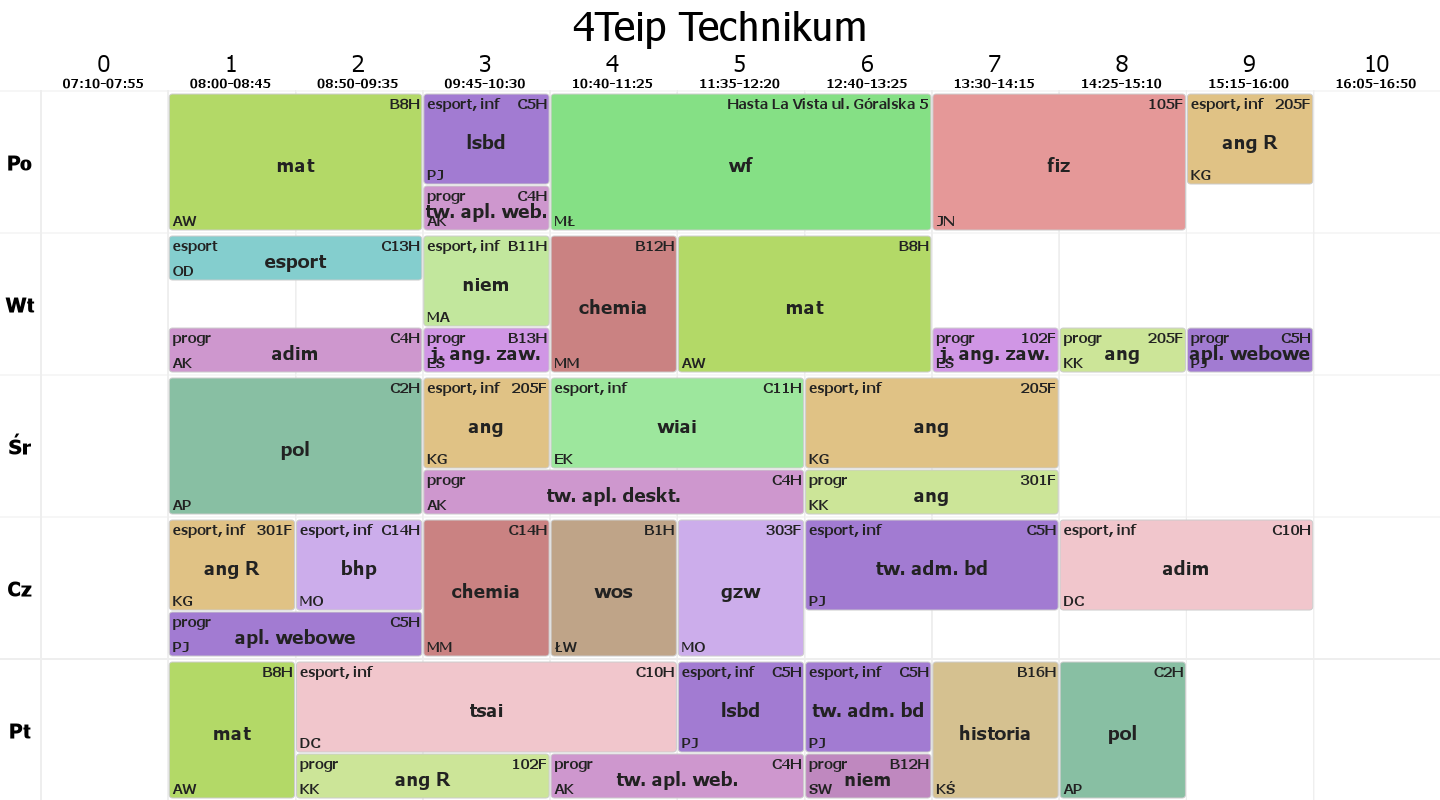
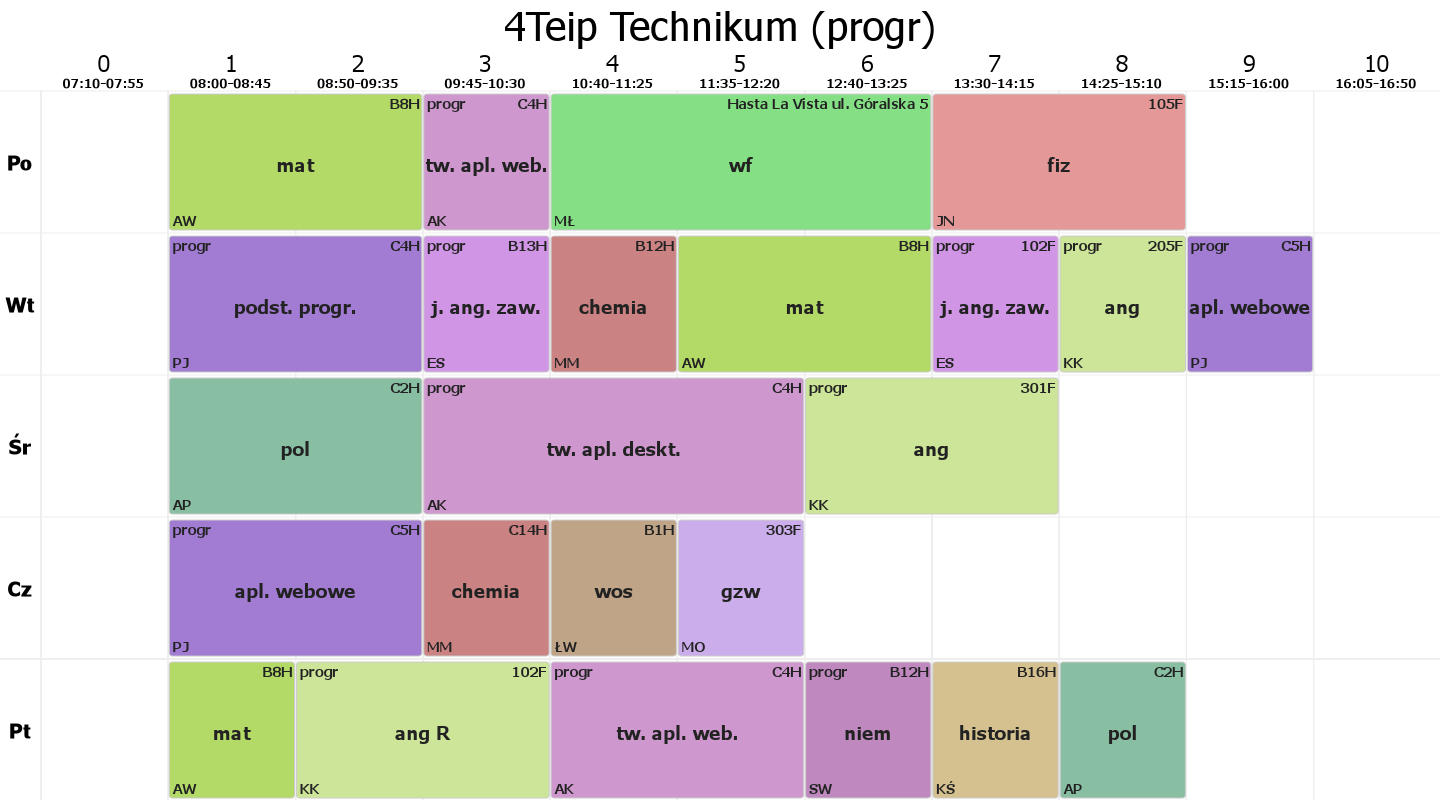
[k85] pngCreate - plan dla wybranej grupy

diff --git a/Other/pngCreate.js b/Other/pngCreate.js
@@ -4,11 +4,13 @@ const tableData=require('./tableData.js')
 var hsl = require('hsl-to-hex')
 var hexToHsl = require('hex-to-hsl');
 
-//tab = JSON.parse(fs.readFileSync('sample_data/table.json', 'utf-8'))
+tab = JSON.parse(fs.readFileSync('sample_data/table.json', 'utf-8'))
 //gen_png(tab,'4Teip Technikum','classes')
 
 f=tableData.find("4teip")
-tableData.getTable(f.type,f.id).then(tab=>gen_png(tab,f.name,f.type))
+//tableData.getTable(f.type,f.id).then(tab=>gen_png_with_group(tab,f.name,f.type,['progr','inf']))
+
+gen_png_with_group(tab,f.name,f.type,['progr'])
 
 async function gen_png(table,name,type){
     const width = 1400;
@@ -188,6 +190,51 @@ async function gen_png(table,name,type){
     return canvas.toBuffer("image/png");
 
     const buffer = canvas.toBuffer("image/png");
+    fs.writeFileSync("./image.png", buffer);
+}
+
+// przystosowuje plan do wybranych grup u zwraca obraz z gen_png()
+async function gen_png_with_group(table,name,type,groups){
+
+    // ustawienie pozycji grup
+    groupToSlice={}
+    var s_pos=0
+    for (var i=0; i<groups.length; i++){
+        groupToSlice[groups[i]]=i
+    }
+
+
+    for (const c in table){
+        if(table[c].type != 'card') { continue }
+
+        // jeśli jest podział na grupy, decyduje czy skipnąć karte
+        if (table[c].groupnames[0] != ''){
+            skip=true
+            slices=Array(groups.length).fill('0')
+
+            // nie skipuje jeśli dopasuje grupe
+            for (const g of table[c].groupnames){
+                if (groups.includes(g)){
+                    slices[groupToSlice[g]]='1'
+                    skip=false
+                }
+            }
+            if (skip){table[c].type='skip'; continue}
+
+            // zapobiega rozbiciu lekcji na wiele cellSlices, np. '101' zmienia na '100'
+            var check_status=0
+            for (const s in slices){
+                if (slices[s]==1){
+                    if (check_status==0){ check_status++ }
+                    if (check_status==2){ slices[s]=0 }
+                }
+                else if (check_status==1){ check_status++ }
+            }
+
+            table[c].cellSlices=slices.join('')
+        }
+    }
+    buffer = await gen_png(table,name += ' ('+groups.join(', ')+')',type)
     fs.writeFileSync("./image.png", buffer);
 }
 
